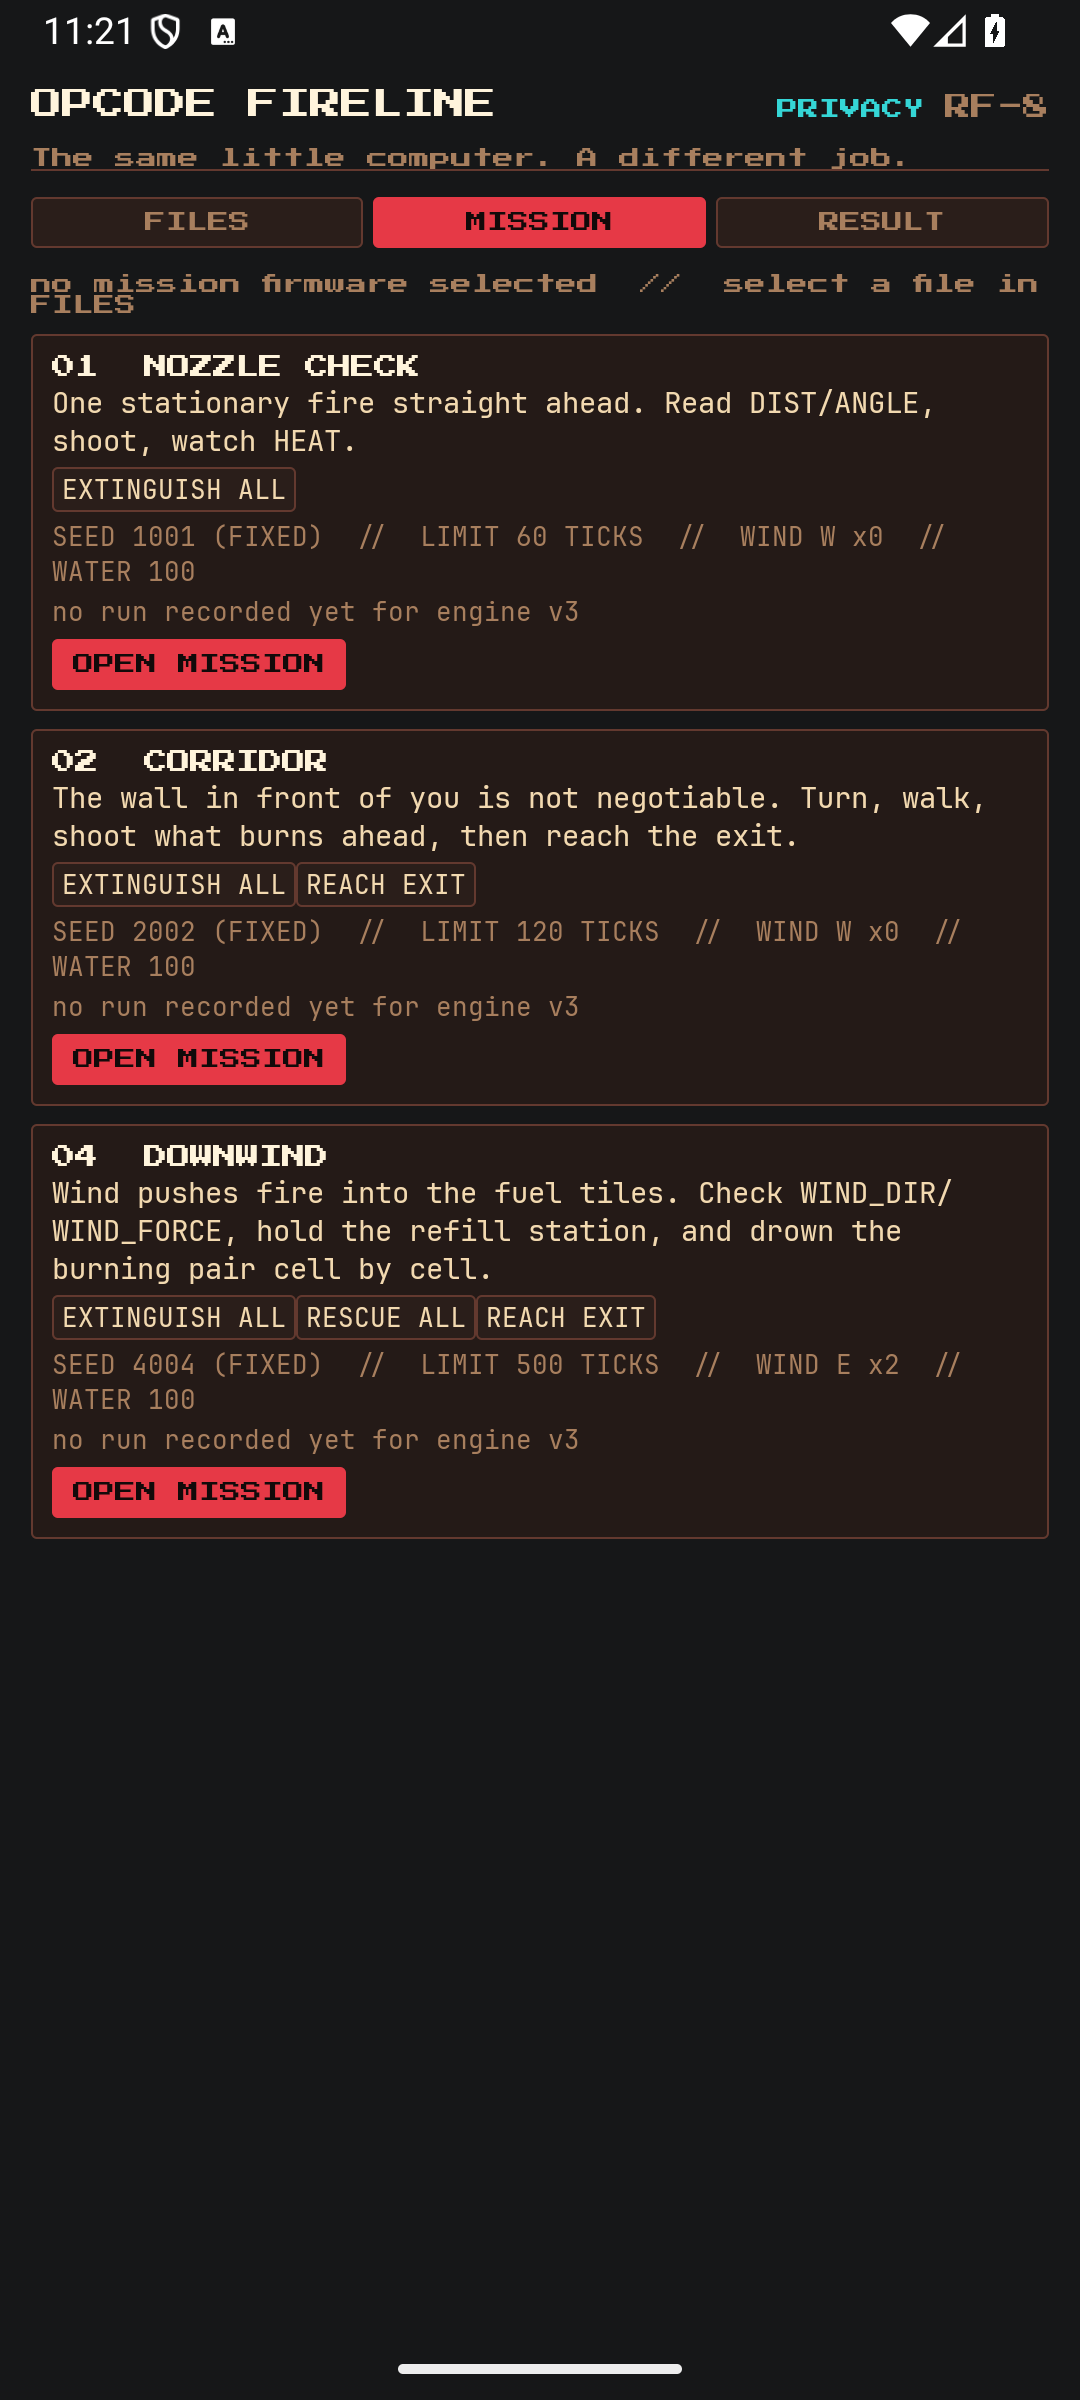
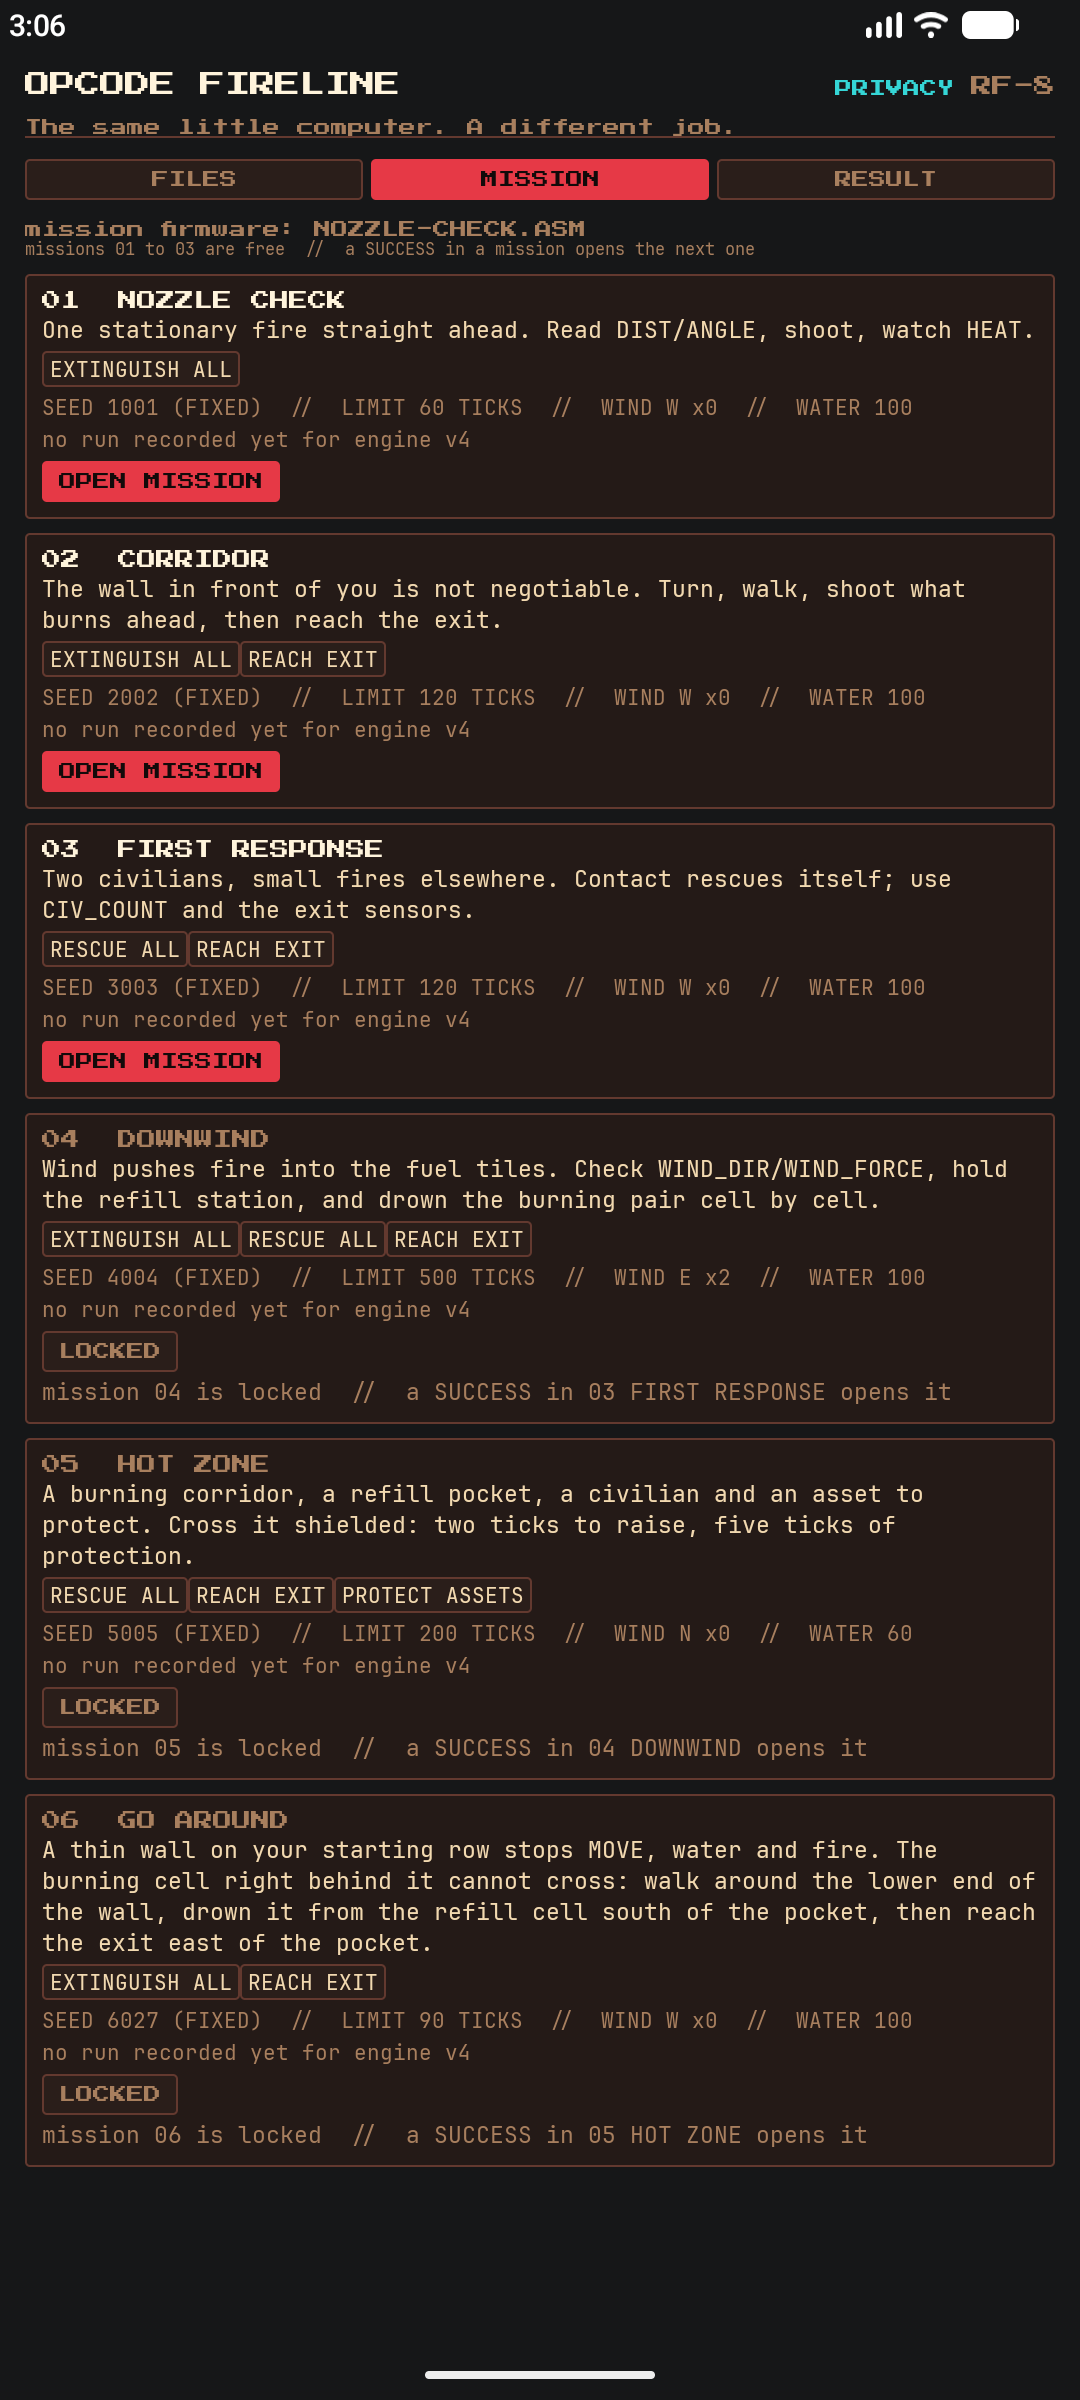
web(R): store copy and screenshots for the 6-mission FIRELINE lineup
Main's STORE-LISTINGS 6 said 'Three focused missions' for a 5-mission,
3-free lineup; the reconciled lineup is 6 missions with 01 to 03 free and 04,
05, 06 opened by a SUCCESS in the previous mission. Rewrite 6 in plain 8-bit
console voice (no em or en dashes), name the six real missions from Missions.kt,
state the progress rule, and set versionCode 3 / versionName 0.1 to match the
merged build.

Re-capture the store screenshots on emulator-5554 from the fresh versionCode 3
debug APK (main's shipped shots showed the old 5-mission lineup):
- fireline-phone-02-missions (base 1080x2400 + 1080x1920 play): picker with
  cards 01 to 03 showing OPEN MISSION and 04 to 06 showing LOCKED.
- fireline-phone-04-mission-run (base + play): mission 06 GO AROUND run, its
  thin edge wall verified by pixel measurement as a continuous stroke of 13
  cells on the col 9 lattice border (the 13-edge capstone).
Editor shot and the 3-screenshot count are unchanged. Mission 06 was opened by
planting the engine's own reference SUCCESS badges for missions 3/4/5 (run
headlessly off the built engine jar), a fast-forward of the real unlock chain;
no test was changed. Gate: three docs/web verifiers pass; no engine/app/web
source in this commit, so the full code matrix from the previous commit stands.

diff --git a/STORE-LISTINGS.md b/STORE-LISTINGS.md
@@ -1,4 +1,4 @@
-# Store Listings — Opcode Arena (free) / Opcode Arena: The Circuit (paid)
+# Store Listings: Opcode Arena (free), Opcode Arena: The Circuit (paid), Opcode FIRELINE (free)
 
 Play Console listing copy per PLAN-PRO §1.2 / §7. Two distinct listings from
 one codebase (product flavors `free` / `pro`; same release commit). Matching
@@ -111,3 +111,66 @@ Five arenas free. A new arena every fight — in The Circuit.
   `app/build/outputs/bundle/proRelease/app-pro-release.aab` → paid listing.
 - Wire format is shared and frozen: `ENGINE_VERSION = 1` in both variants
   (asserted per flavor by `TierParityTest`).
+
+---
+
+## 6. Opcode FIRELINE (free)
+
+- **Package:** `robofight.fireline`
+- **App name:** `Opcode FIRELINE` (15 characters)
+- **First version:** versionCode 3, versionName `0.1`
+- **Category:** Game (Puzzle)
+- **Price:** Free; no ads, subscriptions, in-app purchases or accounts
+
+### Short description (62 / 80 characters)
+
+> Program a fire-response rover. Suppress, navigate, and rescue.
+
+### Full description
+
+```text
+The same little computer. A different job.
+
+Write RF-8 assembly for an autonomous firefighting rover, then send your
+firmware into a deterministic emergency. Your code aims the nozzle, manages
+heat and water, finds a route, rescues civilians, and gets the rover to safety.
+
+Six missions build one complete programming challenge. Missions 01 to 03 are
+free. A mission opens the next one only when your firmware finishes the mission
+before it with a SUCCESS.
+
+- 01 NOZZLE CHECK: one fire straight ahead. Read DIST and ANGLE, shoot, watch HEAT.
+- 02 CORRIDOR: the wall ahead is not negotiable. Turn, walk, shoot what burns, reach the exit.
+- 03 FIRST RESPONSE: two civilians and small fires elsewhere. Contact rescues itself, so use CIV_COUNT and the exit sensors.
+- 04 DOWNWIND: wind pushes fire into the fuel. Check WIND_DIR and WIND_FORCE, hold the refill station, drown the burning pair.
+- 05 HOT ZONE: a burning corridor, a refill pocket, a civilian and an asset. Cross it shielded and keep the asset intact.
+- 06 GO AROUND: a thin wall stops MOVE, water and fire. Walk around its lower end, drown the cell from the far side, then reach the exit.
+
+Build and debug your solution with:
+
+- A source editor and RF-8 assembler
+- RUN and single-step execution
+- Live registers, sensors, water, heat, and mission telemetry
+- A timestamped event log that explains every rescue, refill, hit, and failure
+- Deterministic missions: the same firmware produces the same run
+- Local firmware files with import and export
+
+This is a programming game, not an action game: there are no driving controls
+while a mission runs. The rover does exactly what your firmware tells it.
+
+Works offline. No ads. No accounts. No analytics. No tracking.
+```
+
+### Listing contact and disclosures
+
+- **Privacy-policy URL:** `https://opcode-fireline.appsystems.at/privacy/`
+- **Support email:** `office@appsystems.at`
+- **Data safety:** use `assets/store/release/fireline/data-safety-en-US.md`
+- **Artwork concepts:** `assets/store/fireline/concepts/`
+- **Screenshots:** `assets/store/release/fireline/screenshots/` (mission picker
+  with 01 to 03 open and 04 to 06 locked, the RF-8 editor, and the mission 06
+  GO AROUND run with its thin edge wall)
+
+FIRELINE is a sibling game in the RF-8 family, not an Opcode Arena expansion.
+Its listing must not imply that Arena challenge codes or missions move between
+the games. Plain RF-8 assembly source can be imported and exported.
